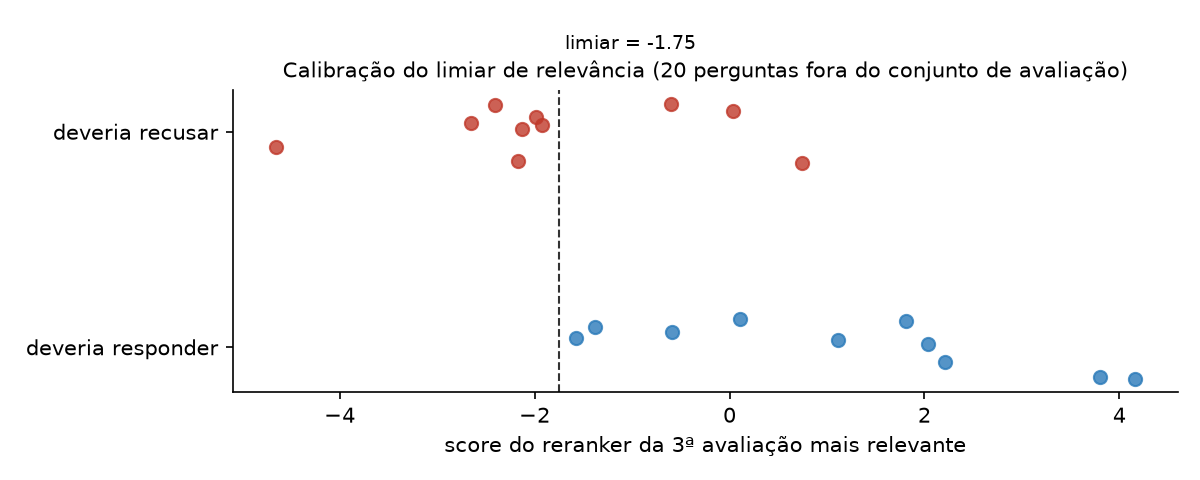
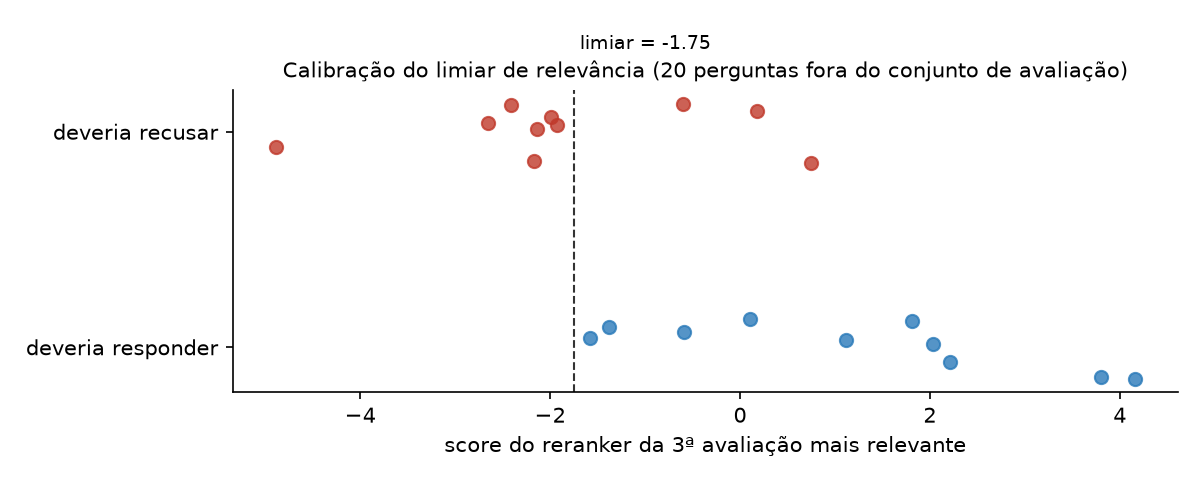
fix: perguntas E06 e E09 do enunciado deixam de ser recusadas
E06 ("O que os clientes relatam sobre problemas relacionados à entrega?"): o
reranker comparava as candidatas só com o núcleo abstrato da pergunta. Relatos
concretos ("demorou muito para chegar") ficavam abaixo do limiar e negações
("entregue sem problemas") acima; o LLM via só 1 avaliação sobre o assunto e
recusava.

E09 ("Quais avaliações sustentam a conclusão de que existem problemas
recorrentes..."): o núcleo parava em "sustentam a" e virava "conclusão de
que existem..."; nenhuma avaliação passava do limiar.

- O limiar (se há evidência) continua no score contra o núcleo, o mesmo da
  calibração; a seleção (quais avaliações entram) usa o maior score entre o
  núcleo e as reescritas do LLM. Usar as reescritas também no limiar fazia a
  pergunta do drone passar (15 acima do limiar).
- O núcleo também vira consulta de busca no modo com LLM.
- Núcleo reconhece pedidos de evidência ("quais avaliações sustentam...").

Calibração: mesmo limiar (-1,75) e mesma acurácia balanceada (0,85).
Sem LLM: responde quando deve 93,3% -> 96,7%; recusas seguem em 100%.
Com as reescritas do LLM, E06, E09, T13 e T14 passam do limiar e I01-I05
continuam abaixo.

diff --git a/src/retrieval/busca.py b/src/retrieval/busca.py
@@ -102,8 +102,9 @@ def buscar(
     restringir: set[str] | None = None,
 ) -> ResultadoBusca:
     """`consultas[0]` é a pergunta original; as demais são reescritas/expansões.
-    O reranker julga cada candidata contra o núcleo da pergunta original
-    (src/retrieval/nucleo.py), o mesmo texto usado na calibração do limiar.
+    O limiar de relevância é aplicado ao score contra o núcleo da pergunta original
+    (src/retrieval/nucleo.py), o mesmo usado na calibração; a ordem das evidências usa
+    o maior score entre o núcleo e as reescritas.
     `restringir`: só busca entre esses review_ids (usado nos exemplos por tema)."""
     filtros = filtros or Filtros()
     idx = carregar()
@@ -112,8 +113,12 @@ def buscar(
         m &= idx.docs["review_id"].isin(restringir)
     permitidos = np.flatnonzero(m.to_numpy())
 
+    # O núcleo também vira consulta: com as reescritas do LLM, as avaliações que falam do
+    # assunto com as palavras da pergunta ("tive problemas com a entrega") ficavam de fora.
+    alvo = nucleo(consultas[0])
+    consultas_busca = list(dict.fromkeys([c for c in consultas if c.strip()] + [alvo]))
     listas_densas, listas_bm25 = [], []
-    for vetor, consulta in zip(codificar_consultas(consultas), consultas):
+    for vetor, consulta in zip(codificar_consultas(consultas_busca), consultas_busca):
         listas_densas.append(idx.busca_densa(vetor, permitidos, config.CANDIDATOS_DENSO))
         if usar_bm25:
             listas_bm25.append(idx.busca_bm25(consulta, permitidos, config.CANDIDATOS_BM25))
@@ -129,7 +134,7 @@ def buscar(
     candidatos = ordenados[: config.CANDIDATOS_RERANK]
 
     resultado = ResultadoBusca(
-        consultas=consultas,
+        consultas=consultas_busca,
         filtros=filtros,
         universo=len(permitidos),
         candidatos_denso=len({p for lst in listas_densas for p, _ in lst}),
@@ -140,15 +145,30 @@ def buscar(
         return resultado
 
     if usar_rerank:
-        alvo = nucleo(consultas[0])
-        pares = [(alvo, idx.docs.at[p, "texto"]) for p in candidatos]
-        scores = dict(zip(candidatos, map(float, _reranker().predict(pares, batch_size=32))))
+        # Dois scores do reranker, com papéis diferentes:
+        # - contra o núcleo: decide SE há evidência (é o score do limiar calibrado);
+        # - o maior entre núcleo e reescritas: decide QUAIS avaliações entram no contexto.
+        # Só com o núcleo ("problemas relacionados à entrega"), relatos concretos
+        # ("demorou muito para chegar", sem a palavra "problemas") ficavam abaixo do limiar
+        # e negações ("entregue sem problemas") acima. Só com as reescritas, palavras
+        # genéricas delas ("entrega", "eficiente") faziam perguntas sem evidência
+        # (entrega por drone) passarem do limiar.
+        alvos = list(dict.fromkeys([alvo] + [c for c in consultas[1:] if c.strip()]))
+        textos = [idx.docs.at[p, "texto"] for p in candidatos]
+        pares = [(a, t) for a in alvos for t in textos]
+        brutos = np.asarray(_reranker().predict(pares, batch_size=32), dtype=float).reshape(len(alvos), len(candidatos))
+        score_nucleo = dict(zip(candidatos, map(float, brutos[0])))
+        scores = dict(zip(candidatos, map(float, brutos.max(axis=0))))
+        resultado.max_score = max(score_nucleo.values())
     else:
-        scores = {p: fundido[p] for p in candidatos}
-    resultado.max_score = max(scores.values())
+        scores = score_nucleo = {p: fundido[p] for p in candidatos}
+        resultado.max_score = max(scores.values())
 
     if usar_rerank and limiar is not None:
-        relevantes = [p for p in candidatos if scores[p] >= limiar]
+        relevantes = [p for p in candidatos if score_nucleo[p] >= limiar]
+        if len(relevantes) >= config.MIN_EVIDENCIAS:
+            # Há evidência: a seleção pode usar também quem só pontua alto nas reescritas.
+            relevantes = [p for p in candidatos if scores[p] >= limiar]
         resultado.descartadas_limiar = len(candidatos) - len(relevantes)
     else:
         relevantes = candidatos

diff --git a/src/retrieval/nucleo.py b/src/retrieval/nucleo.py
@@ -19,7 +19,24 @@ _MOLDURA = re.compile(
 )
 
 
+# Pedido de evidência: "Quais avaliações sustentam a conclusão de que existem problemas
+# recorrentes relacionados ao prazo de entrega?" -> "problemas relacionados ao prazo de
+# entrega". Sem isso, a moldura genérica parava em "sustentam a" e o núcleo virava
+# "conclusão de que existem...", que nenhuma avaliação parece com.
+_EVIDENCIA = re.compile(
+    r"^\s*quais?\s+(avalia\w*|coment\w*|relatos?)\s+"
+    r"(sustenta\w*|comprova\w*|mostra\w*|confirma\w*|indica\w*|apoia\w*|evidencia\w*)\s+"
+    r"(a\s+(conclus\w+|ideia|hip[oó]tese)\s+)?(de\s+)?que\s+((existem|h[aá])\s+)?",
+    re.I,
+)
+_FREQUENCIA = re.compile(r"\s*\b(recorrentes?|frequentes?)\b", re.I)
+
+
 def nucleo(pergunta: str) -> str:
     base = pergunta.strip().rstrip("?. ")
+    if _EVIDENCIA.match(base):
+        n = _FREQUENCIA.sub("", _EVIDENCIA.sub("", base, count=1)).strip()
+        if n:
+            return n
     n = _MOLDURA.sub("", base, count=1).strip()
     return n if n and n != base else base
